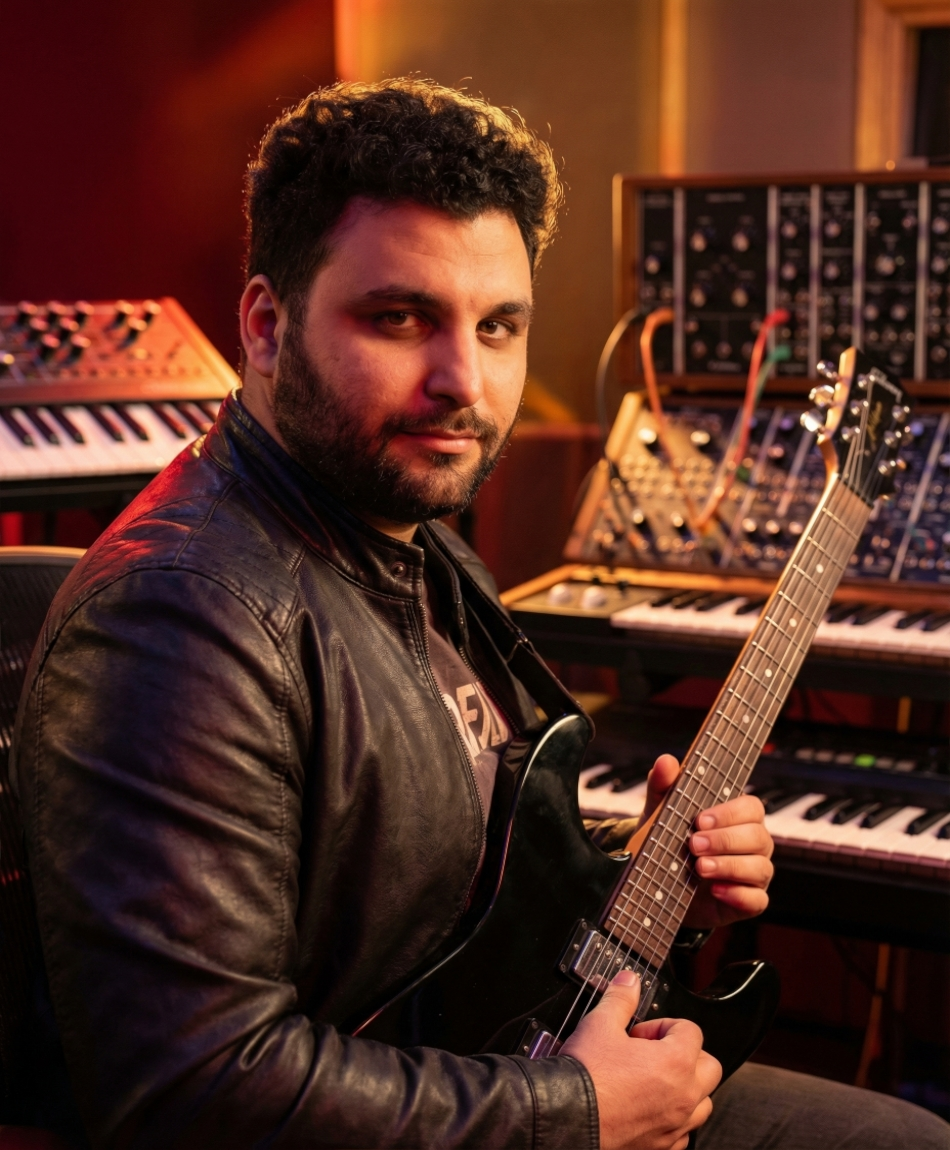
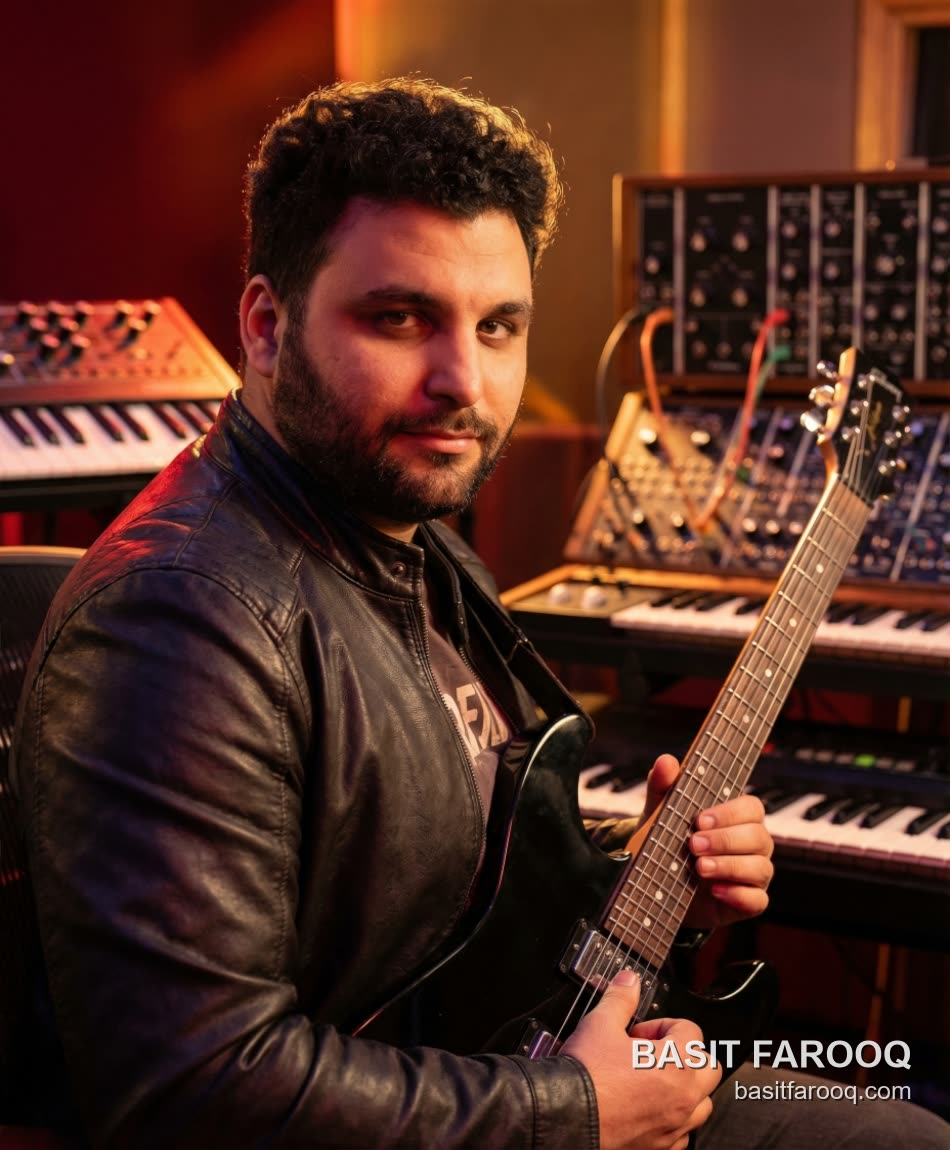
Remove phone number, watermark and compress AI Lab gallery
- Drop the public phone link from the contact sections
- Add a corner watermark to the 14 gallery images and recompress
  them as JPG (12 MB -> 1.9 MB)
- Fix gallery titles that no longer matched their images

Changed region(s): [[0.6411, 0.8826, 0.9768, 0.9739]]

diff --git a/index.html b/index.html
@@ -660,12 +660,12 @@ html.is-booting,html.is-booting body{overflow:hidden;}
     <div class="gallery-item" data-gcat="sports" onclick="openLightbox(this)"><img src="ai-gallery/2853.jpg" alt="Stadium Action, an AI-generated image made with Google Gemini" onerror="this.closest('.gallery-item').remove()"/><div class="gallery-item-overlay"><div class="gallery-item-label">Sports</div><div class="gallery-item-title">Stadium Action</div></div></div>
     <div class="gallery-item" data-gcat="scene" onclick="openLightbox(this)"><img src="ai-gallery/790.jpg" alt="Music Producer, an AI-generated image made with Google Gemini" onerror="this.closest('.gallery-item').remove()"/><div class="gallery-item-overlay"><div class="gallery-item-label">Cinematic</div><div class="gallery-item-title">Music Producer</div></div></div>
     <div class="gallery-item" data-gcat="scene" onclick="openLightbox(this)"><img src="ai-gallery/820.jpg" alt="Pitchside Coach, an AI-generated image made with Google Gemini" onerror="this.closest('.gallery-item').remove()"/><div class="gallery-item-overlay"><div class="gallery-item-label">Cinematic</div><div class="gallery-item-title">Pitchside Coach</div></div></div>
-    <div class="gallery-item" data-gcat="scene" onclick="openLightbox(this)"><img src="ai-gallery/854.jpg" alt="Night Stadium, an AI-generated image made with Google Gemini" onerror="this.closest('.gallery-item').remove()"/><div class="gallery-item-overlay"><div class="gallery-item-label">Cinematic</div><div class="gallery-item-title">Night Stadium</div></div></div>
-    <div class="gallery-item" data-gcat="scene" onclick="openLightbox(this)"><img src="ai-gallery/229.jpg" alt="Live Drummer, an AI-generated image made with Google Gemini" onerror="this.closest('.gallery-item').remove()"/><div class="gallery-item-overlay"><div class="gallery-item-label">Cinematic</div><div class="gallery-item-title">Live Drummer</div></div></div>
-    <div class="gallery-item" data-gcat="scene" onclick="openLightbox(this)"><img src="ai-gallery/660.jpg" alt="Film Set Selfie, an AI-generated image made with Google Gemini" onerror="this.closest('.gallery-item').remove()"/><div class="gallery-item-overlay"><div class="gallery-item-label">Cinematic</div><div class="gallery-item-title">Film Set Selfie</div></div></div>
+    <div class="gallery-item" data-gcat="scene" onclick="openLightbox(this)"><img src="ai-gallery/229.jpg" alt="Night Stadium, an AI-generated image made with Google Gemini" onerror="this.closest('.gallery-item').remove()"/><div class="gallery-item-overlay"><div class="gallery-item-label">Cinematic</div><div class="gallery-item-title">Night Stadium</div></div></div>
+    <div class="gallery-item" data-gcat="scene" onclick="openLightbox(this)"><img src="ai-gallery/854.jpg" alt="Live Drummer, an AI-generated image made with Google Gemini" onerror="this.closest('.gallery-item').remove()"/><div class="gallery-item-overlay"><div class="gallery-item-label">Cinematic</div><div class="gallery-item-title">Live Drummer</div></div></div>
+    <div class="gallery-item" data-gcat="scene" onclick="openLightbox(this)"><img src="ai-gallery/CapturedUI_20251229_185430.jpg" alt="Film Set Selfie, an AI-generated image made with Google Gemini" onerror="this.closest('.gallery-item').remove()"/><div class="gallery-item-overlay"><div class="gallery-item-label">Cinematic</div><div class="gallery-item-title">Film Set Selfie</div></div></div>
     <div class="gallery-item" data-gcat="scene" onclick="openLightbox(this)"><img src="ai-gallery/698.jpg" alt="Guitar and Synths, an AI-generated image made with Google Gemini" onerror="this.closest('.gallery-item').remove()"/><div class="gallery-item-overlay"><div class="gallery-item-label">Cinematic</div><div class="gallery-item-title">Guitar and Synths</div></div></div>
-    <div class="gallery-item" data-gcat="art" onclick="openLightbox(this)"><img src="ai-gallery/CapturedUI_20251229_185430.png" alt="Saudi Heritage Poster, an AI-generated image made with Google Gemini" onerror="this.closest('.gallery-item').remove()"/><div class="gallery-item-overlay"><div class="gallery-item-label">Illustration</div><div class="gallery-item-title">Saudi Heritage Poster</div></div></div>
-    <div class="gallery-item" data-gcat="art" onclick="openLightbox(this)"><img src="ai-gallery/CapturedUI_20260111_153241.png" alt="Pencil Portrait, an AI-generated image made with Google Gemini" onerror="this.closest('.gallery-item').remove()"/><div class="gallery-item-overlay"><div class="gallery-item-label">Illustration</div><div class="gallery-item-title">Pencil Sketch Portrait</div></div></div>
+    <div class="gallery-item" data-gcat="art" onclick="openLightbox(this)"><img src="ai-gallery/CapturedUI_20260111_153241.jpg" alt="Saudi Heritage Poster, an AI-generated image made with Google Gemini" onerror="this.closest('.gallery-item').remove()"/><div class="gallery-item-overlay"><div class="gallery-item-label">Illustration</div><div class="gallery-item-title">Saudi Heritage Poster</div></div></div>
+    <div class="gallery-item" data-gcat="scene" onclick="openLightbox(this)"><img src="ai-gallery/660.jpg" alt="Matchday Meetup, an AI-generated image made with Google Gemini" onerror="this.closest('.gallery-item').remove()"/><div class="gallery-item-overlay"><div class="gallery-item-label">Cinematic</div><div class="gallery-item-title">Matchday Meetup</div></div></div>
 </div>
 </section>
 
@@ -730,7 +730,6 @@ html.is-booting,html.is-booting body{overflow:hidden;}
     <div class="contact-links">
       <a href="mailto:basit123farooq@gmail.com" class="contact-link"><svg viewBox="0 0 24 24" fill="none" stroke="currentColor" stroke-width="2"><path d="M4 4h16c1.1 0 2 .9 2 2v12c0 1.1-.9 2-2 2H4c-1.1 0-2-.9-2-2V6c0-1.1.9-2 2-2z"/><polyline points="22,6 12,13 2,6"/></svg>Email Me</a>
       <a href="https://linkedin.com/in/basit-farooq-855ba171" target="_blank" class="contact-link"><svg viewBox="0 0 24 24" fill="none" stroke="currentColor" stroke-width="2"><path d="M16 8a6 6 0 0 1 6 6v7h-4v-7a2 2 0 0 0-4 0v7h-4v-7a6 6 0 0 1 6-6z"/><rect x="2" y="9" width="4" height="12"/><circle cx="4" cy="4" r="2"/></svg>LinkedIn</a>
-      <a href="tel:+923132500652" class="contact-link"><svg viewBox="0 0 24 24" fill="none" stroke="currentColor" stroke-width="2"><path d="M22 16.92v3a2 2 0 0 1-2.18 2 19.79 19.79 0 0 1-8.63-3.07A19.5 19.5 0 0 1 4.69 13 19.79 19.79 0 0 1 1.61 4.37 2 2 0 0 1 3.59 2h3a2 2 0 0 1 2 1.72c.127.96.361 1.903.7 2.81a2 2 0 0 1-.45 2.11L8.09 9.91a16 16 0 0 0 6 6l1.27-1.27a2 2 0 0 1 2.11-.45c.907.339 1.85.573 2.81.7A2 2 0 0 1 22 16.92z"/></svg>Call Me</a>
     </div>
     <a href="mailto:basit123farooq@gmail.com" class="btn-primary">Start A Conversation →</a>
   </div>

diff --git a/basit_portfolio1.html b/basit_portfolio1.html
@@ -412,15 +412,15 @@
       <div class="gallery-item-overlay"><div class="gallery-item-label">Cinematic</div><div class="gallery-item-title">Pitchside Coach</div></div>
     </div>
     <div class="gallery-item" data-gcat="scene" onclick="openLightbox(this)">
-      <img src="ai-gallery/854.jpg" alt="Night Stadium" loading="lazy" onload="this.closest('.gallery-item').classList.add('loaded')" onerror="this.closest('.gallery-item').remove()"/>
+      <img src="ai-gallery/229.jpg" alt="Night Stadium" loading="lazy" onload="this.closest('.gallery-item').classList.add('loaded')" onerror="this.closest('.gallery-item').remove()"/>
       <div class="gallery-item-overlay"><div class="gallery-item-label">Cinematic</div><div class="gallery-item-title">Night Stadium</div></div>
     </div>
     <div class="gallery-item" data-gcat="scene" onclick="openLightbox(this)">
-      <img src="ai-gallery/229.jpg" alt="Live Drummer" loading="lazy" onload="this.closest('.gallery-item').classList.add('loaded')" onerror="this.closest('.gallery-item').remove()"/>
+      <img src="ai-gallery/854.jpg" alt="Live Drummer" loading="lazy" onload="this.closest('.gallery-item').classList.add('loaded')" onerror="this.closest('.gallery-item').remove()"/>
       <div class="gallery-item-overlay"><div class="gallery-item-label">Cinematic</div><div class="gallery-item-title">Live Drummer</div></div>
     </div>
     <div class="gallery-item" data-gcat="scene" onclick="openLightbox(this)">
-      <img src="ai-gallery/660.jpg" alt="Film Set Selfie" loading="lazy" onload="this.closest('.gallery-item').classList.add('loaded')" onerror="this.closest('.gallery-item').remove()"/>
+      <img src="ai-gallery/CapturedUI_20251229_185430.jpg" alt="Film Set Selfie" loading="lazy" onload="this.closest('.gallery-item').classList.add('loaded')" onerror="this.closest('.gallery-item').remove()"/>
       <div class="gallery-item-overlay"><div class="gallery-item-label">Cinematic</div><div class="gallery-item-title">Film Set Selfie</div></div>
     </div>
     <div class="gallery-item" data-gcat="scene" onclick="openLightbox(this)">
@@ -428,12 +428,12 @@
       <div class="gallery-item-overlay"><div class="gallery-item-label">Cinematic</div><div class="gallery-item-title">Guitar &amp; Synths</div></div>
     </div>
     <div class="gallery-item" data-gcat="art" onclick="openLightbox(this)">
-      <img src="ai-gallery/CapturedUI_20251229_185430.png" alt="Saudi Heritage Poster" loading="lazy" onload="this.closest('.gallery-item').classList.add('loaded')" onerror="this.closest('.gallery-item').remove()"/>
+      <img src="ai-gallery/CapturedUI_20260111_153241.jpg" alt="Saudi Heritage Poster" loading="lazy" onload="this.closest('.gallery-item').classList.add('loaded')" onerror="this.closest('.gallery-item').remove()"/>
       <div class="gallery-item-overlay"><div class="gallery-item-label">Illustration</div><div class="gallery-item-title">Saudi Heritage Poster</div></div>
     </div>
-    <div class="gallery-item" data-gcat="art" onclick="openLightbox(this)">
-      <img src="ai-gallery/CapturedUI_20260111_153241.png" alt="Pencil Portrait" loading="lazy" onload="this.closest('.gallery-item').classList.add('loaded')" onerror="this.closest('.gallery-item').remove()"/>
-      <div class="gallery-item-overlay"><div class="gallery-item-label">Illustration</div><div class="gallery-item-title">Pencil Sketch Portrait</div></div>
+    <div class="gallery-item" data-gcat="scene" onclick="openLightbox(this)">
+      <img src="ai-gallery/660.jpg" alt="Matchday Meetup" loading="lazy" onload="this.closest('.gallery-item').classList.add('loaded')" onerror="this.closest('.gallery-item').remove()"/>
+      <div class="gallery-item-overlay"><div class="gallery-item-label">Cinematic</div><div class="gallery-item-title">Matchday Meetup</div></div>
     </div>
     <div class="gallery-item" data-gcat="art" onclick="openLightbox(this)">
       <img src="ai-gallery/CapturedUI_20260111_175022.png" alt="Waving Caricature" loading="lazy" onload="this.closest('.gallery-item').classList.add('loaded')" onerror="this.closest('.gallery-item').remove()"/>
@@ -508,7 +508,6 @@
       <a href="mailto:basit123farooq@gmail.com" class="contact-link"><svg viewBox="0 0 24 24" fill="none" stroke="currentColor" stroke-width="2"><path d="M4 4h16c1.1 0 2 .9 2 2v12c0 1.1-.9 2-2 2H4c-1.1 0-2-.9-2-2V6c0-1.1.9-2 2-2z"/><polyline points="22,6 12,13 2,6"/></svg>Email Me</a>
       <a href="https://linkedin.com/in/basit-farooq-855ba171" target="_blank" class="contact-link"><svg viewBox="0 0 24 24" fill="none" stroke="currentColor" stroke-width="2"><path d="M16 8a6 6 0 0 1 6 6v7h-4v-7a2 2 0 0 0-4 0v7h-4v-7a6 6 0 0 1 6-6z"/><rect x="2" y="9" width="4" height="12"/><circle cx="4" cy="4" r="2"/></svg>LinkedIn</a>
       <a href="https://bit.ly/3V2YX4b" target="_blank" class="contact-link"><svg viewBox="0 0 24 24" fill="none" stroke="currentColor" stroke-width="2"><circle cx="12" cy="12" r="10"/><line x1="2" y1="12" x2="22" y2="12"/><path d="M12 2a15.3 15.3 0 0 1 4 10 15.3 15.3 0 0 1-4 10 15.3 15.3 0 0 1-4-10 15.3 15.3 0 0 1 4-10z"/></svg>Portfolio</a>
-      <a href="tel:+923132500652" class="contact-link"><svg viewBox="0 0 24 24" fill="none" stroke="currentColor" stroke-width="2"><path d="M22 16.92v3a2 2 0 0 1-2.18 2 19.79 19.79 0 0 1-8.63-3.07A19.5 19.5 0 0 1 4.69 13 19.79 19.79 0 0 1 1.61 4.37 2 2 0 0 1 3.59 2h3a2 2 0 0 1 2 1.72c.127.96.361 1.903.7 2.81a2 2 0 0 1-.45 2.11L8.09 9.91a16 16 0 0 0 6 6l1.27-1.27a2 2 0 0 1 2.11-.45c.907.339 1.85.573 2.81.7A2 2 0 0 1 22 16.92z"/></svg>Call Me</a>
     </div>
     <a href="mailto:basit123farooq@gmail.com" class="btn-primary">Start A Conversation →</a>
   </div>
